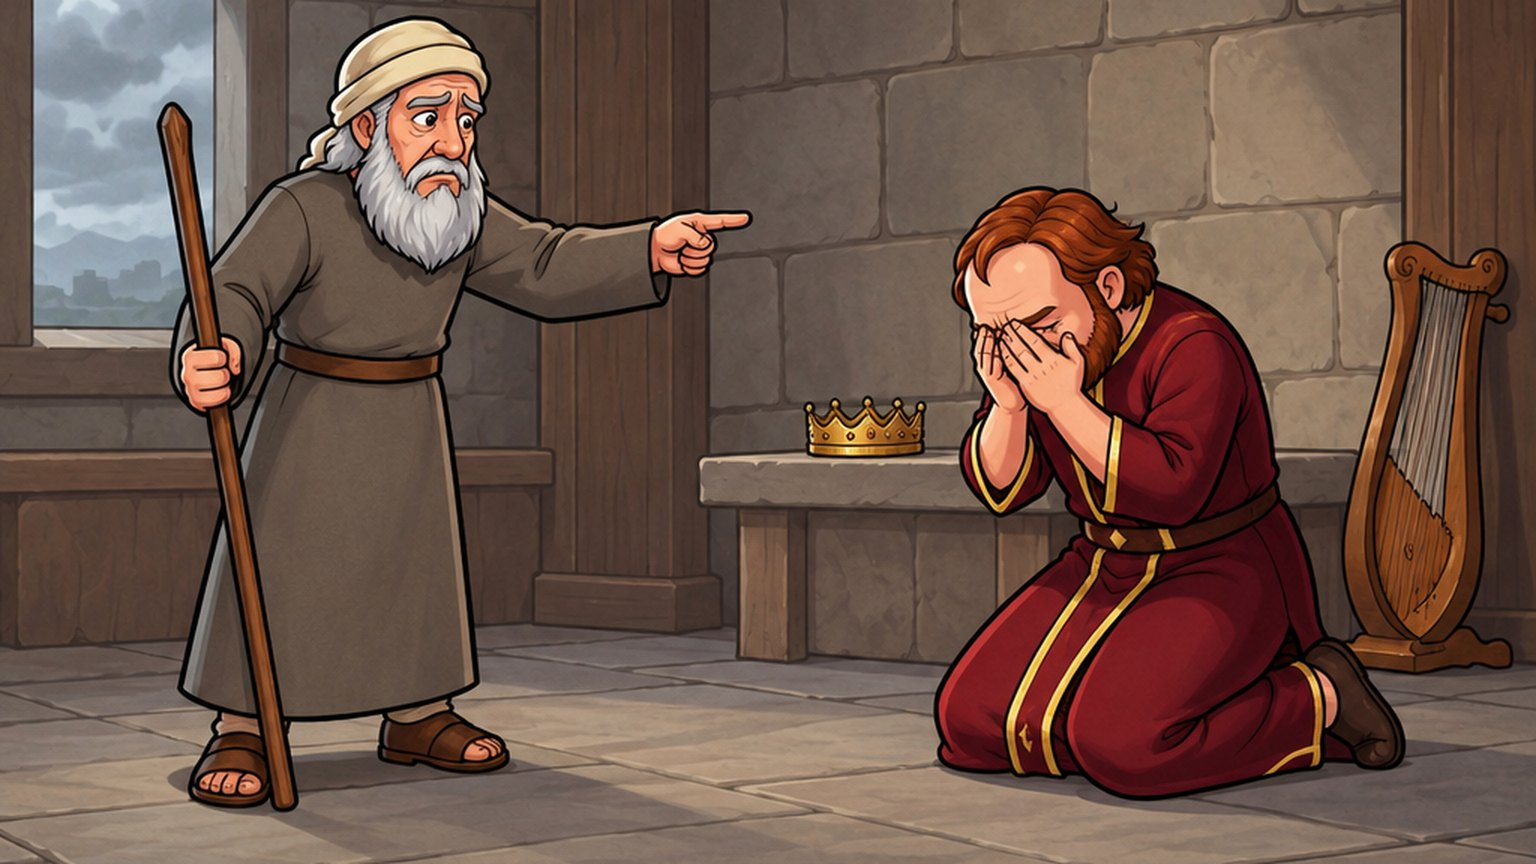
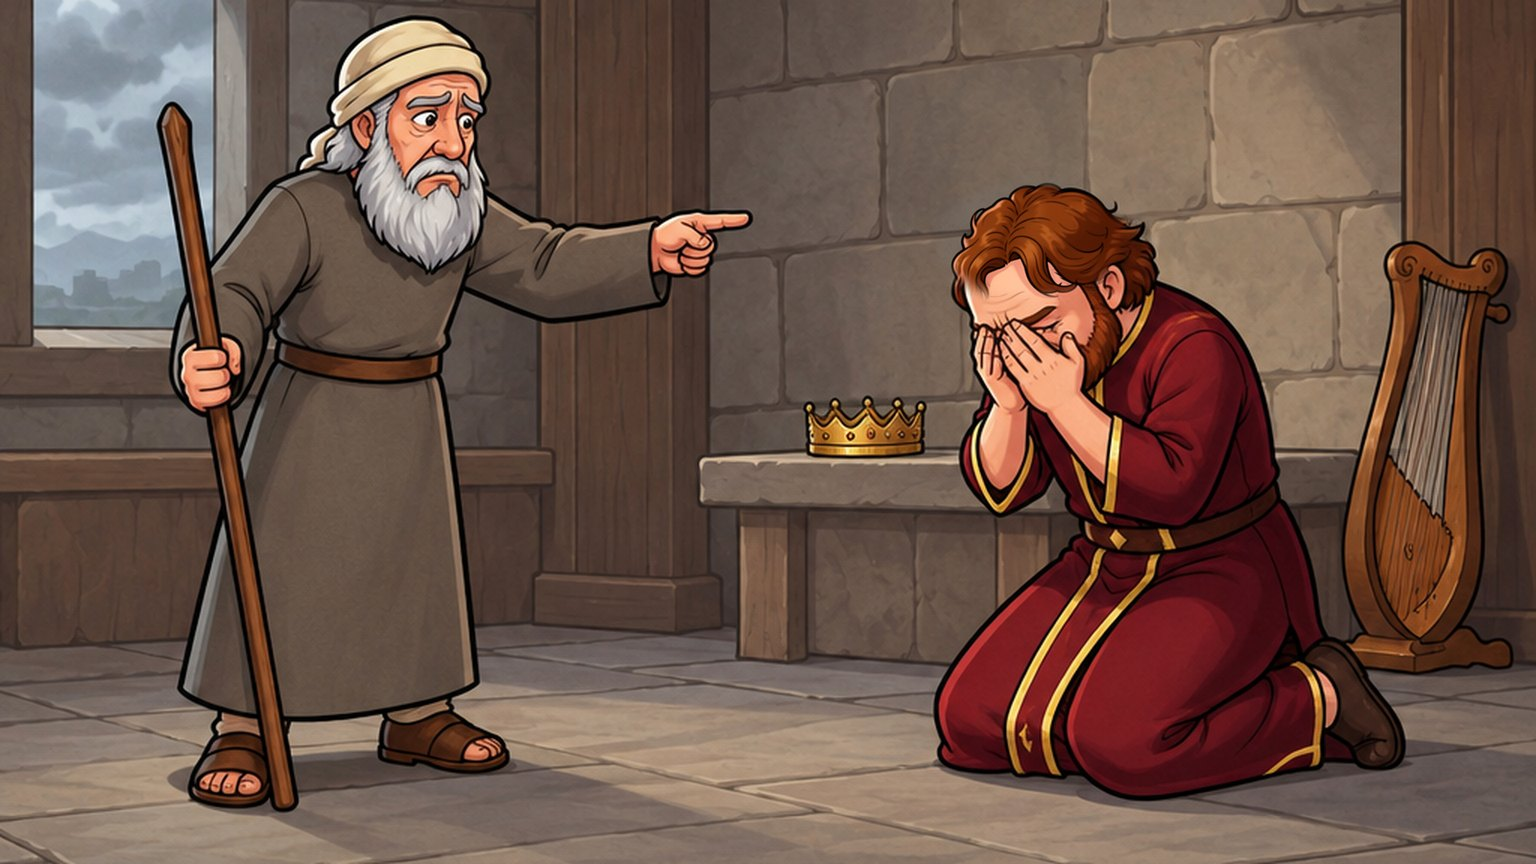
v1.26: 17 이야기 그림 손질(나단 앞의 다윗 머리, 귀에 뿔처럼 보이던 선지자)

Changed region(s): [[0.5938, 0.1875, 0.7188, 0.3438]]

diff --git a/index.html b/index.html
@@ -4422,7 +4422,7 @@ const ART_DEF={
   shep1:{h:62,top:.5},shep2:{h:68,top:.5},shep3:{h:74,top:.5},art1:{h:76,top:.7},art2:{h:82,top:.72},art3:{h:88,top:.74},
 };
 const ART={};
-const AV='?v=33';   // 그림을 바꿀 때마다 올려서 예전 그림이 캐시에서 나오지 않게
+const AV='?v=34';   // 그림을 바꿀 때마다 올려서 예전 그림이 캐시에서 나오지 않게
 const BG_IMG={},REAR_IMG={},FALL_IMG={},FULL_IMG={};   // FULL_IMG: 성벽을 다 지은 배경(bg20_full.jpg, 느 6:15)   // REAR_IMG: 처음엔 막혀 있는 뒷길을 덮는 그림(bgN_rear.png) · FALL_IMG: 성벽이 무너진 배경(bg9_fall.jpg, 수 6:20)
 function loadArt(){for(const k of Object.keys(STAGES).map(Number)){const im=new Image();im.onload=()=>{BG_IMG[k]=im;if(G&&G.sid===k)buildBg();};im.src='art/bg'+k+'.jpg'+AV;if(STAGES[k].rear!=null){const r=new Image();r.onload=()=>{REAR_IMG[k]=r;if(G&&G.sid===k)buildBg();};r.src='art/bg'+k+'_rear.png'+AV;}
     if(STAGES[k].jericho){const f=new Image();f.onload=()=>{FALL_IMG[k]=f;};f.src='art/bg'+k+'_fall.jpg'+AV;}

diff --git a/기획서.md b/기획서.md
@@ -1313,6 +1313,7 @@
 - [x] v1.25 기술 카드(10-18 사용자: "각 타워가 업그레이드돼서 기술을 쓸 때, 그 기술을 쓰는 예시 스크린샷 화면과 함께 그거 익히면 어떻게 되는지도 알려주면 좋을듯해"): 4단계 탑 여덟 가지의 기술 스물넷마다 정보 칸(기술 단추에 마우스를 올리거나 처음 누를 때)을 카드로 바꿈. 왼쪽에 그 기술을 실제로 쓰는 게임 화면(`art/sk/<가지>_<기술>.jpg`, 480×270), 오른쪽에 이름·익힌 단계·'이럴 때 좋아요' 한 줄(`SKILL_WHY`), 아래에 1·2·3단계 효과(익힌 단계는 ✓, 다음에 익힐 단계는 금빛 띠), 말씀 자리와 다음 단계 값. 화면은 `_art/기술찍기.js`(`_art/스크린샷서버.py`, launch.json `kog-shot` 8770)로 4 갈대 상자에 그 탑 하나를 세우고 그 기술만 3단계로 익혀, 기술이 눈에 보이는 순간(글자·빛·투사체)을 기다려 세 장씩 찍고 하나를 고름(`_art/고르기_기술.json`). 세겔 숫자는 빼고 찍고, 눈에 잘 안 보이는 효과는 금빛 점선 고리와 글(빨리!, 앞을 비추라, 앞장선 용사, 성 모퉁이 망대, 서로 쳐요, 곧바로 다음 화살, 한 번에 둘, 큰 돌)과 화살표(세 용사)로 덧그림. 휴대폰 가로(812×375)에서도 카드가 화면 안에 들어감. 앱 1.25(34)
 - [x] v1.25 13 미스바 손질(10-18 사용자: "병사들과 룻의 디자인이 초기 상태대로야. 그림체에 맞게 바꿔줘", "좌상단 길 때문에 적들이 하늘에서 내려오는 것 같은 인상을 줘". 사용자는 12라고 했지만 둘 다 13 미스바에 있었다): 코드로 그리던 물을 붓는 백성 여섯(삼상 7:6)을 그림으로(물동이를 든 남자 p_jar·여자 p_jar2가 번갈아, 부을 때는 p_pour·p_pour2), 숨은 이야기에서 이삭 줍는 룻을 그림으로(걷는 ruth, 무릎 꿇고 줍는 ruth_glean). 배경 bg13 왼쪽 위에서 길이 파란 하늘과 먼 안개 골짜기 위로 그려져 있어서 `_art/배경고침13.py`(FLUX.2 klein 참조 편집)로 길 둘레를 초록 언덕과 나무로 다시 그리고 길은 색으로 잡은 가림으로 원본 그대로 둠: 처음 넷은 길가에 옛 안개 띠와 이음매가 남았고(v0.1), 다음 넷 가운데 둘은 밋밋한 초록이고 왼쪽 아래에 안개가 남아 상자를 넓혀 다시(v0.2), 시드 11. 그림 `새그림13g.json`·`고르기_13g.json`: p_jar 1, p_jar2 3, p_pour 3, p_pour2 3, ruth 2, ruth_glean 2. 그림이 없으면 예전 코드 그림으로.
 - [x] v1.25 16 시글락 마침 손질(10-19 사용자: "시글락 스테이지에서도 끝나고 옛날버전 이미지들이 떠. (사람들, 재물 등)"): 코드로 그리던 브솔 시내의 이백 명(삼상 30:10, 21)을 그림으로(지쳐 앉은 p_rest → 맞으러 걷는 p_soldier → 두 팔을 든 p_cheer). 예전에는 맞으러 나올 때부터만 보였는데, 이제 행렬이 오는 동안 브솔 곁에 지쳐 앉아 있다가 일어난다. 되찾은 물건 더미(30:19–20)를 그림으로(e_spoils, 곡식 자루·항아리·금은 잔이 든 상자·양탄자·양털), 똑같은 두 더미로 나뉘는 30:24도 같은 그림 둘. 빼앗아 달아나는 자루와 위쪽 '빼앗긴 것' 표시, 17의 노략물 자루도 그림으로(e_sack, 불씨 빛은 그대로). 그림 `새그림16d.json`·`고르기_16d.json`: p_rest 1, p_cheer 1, e_spoils 1, e_sack 1. 그림이 없으면 예전 코드 그림으로.
+- [x] v1.26 17 이야기 그림 둘 손질(10-19 사용자): s17b(나단이 다윗을 꾸짖음) "다윗이 갑자기 늙고 이마 선이 후퇴하는 탈모가 온 것 같아" → `손고침9.json`으로 머리와 이마만 다시 그려 s17a처럼 숱 많은 적갈색 물결 머리(처음 넷은 이마를 그대로 두어 '지움'으로 흐리게 한 뒤 다시, 시드 7). s17f(여호사밧) "귀에 뿔이 돋아난 사람은 그림 오류 같아" → 그림의 뿔은 시드기야의 철 뿔(대하 18:10)이었지만 이야기 글에 나오지 않고 귀 옆에서 쥐고 있어 머리에 돋은 것처럼 보였다. `손고침10.json`에서 뿔을 손에 든 물건으로 뚜렷이 그린 안(A)과 뿔을 지운 안(B)을 견주어, A도 귀 옆의 뾰족한 것으로 보여 B 시드 1(두 주먹을 들고 외치는 선지자)을 고름. 고친 그림은 raw\s17b_gpt2_fix.png·s17f_gpt2_fix.png, `고르기_다시.json`. 앱 1.26(35)
 - [ ] 수치 균형: 세겔 수입, 탑과 적의 체력·피해, 대기 시간, 영웅 성장 곡선은 개발하면서 프로토타입에서 맞춘다
 - [x] 그림과 소리 방향: '그림과 소리'에 반영
 - [x] 목숨 이름과 패배 화면: 약속의 등불과 사 42:3. '핵심 게임 규칙'에 반영

diff --git a/README.md b/README.md
@@ -4,7 +4,7 @@
 
 마귀에게 조종당한 사람들을 쓰러뜨리면 줄이 끊어지고, 사람은 풀려나고 어둠은 달아납니다. 스테이지를 지켜 내면 그 전투의 구원 사건이 그림 만화로 펼쳐집니다. 구원은 언제나 하나님이 하시고, 플레이어는 받은 것을 잘 쓰는 청지기입니다.
 
-## 들어 있는 것 (v1.25)
+## 들어 있는 것 (v1.26)
 
 | 장 | 스테이지 | 본문 | 처음 나오는 것 |
 |---|---|---|---|
